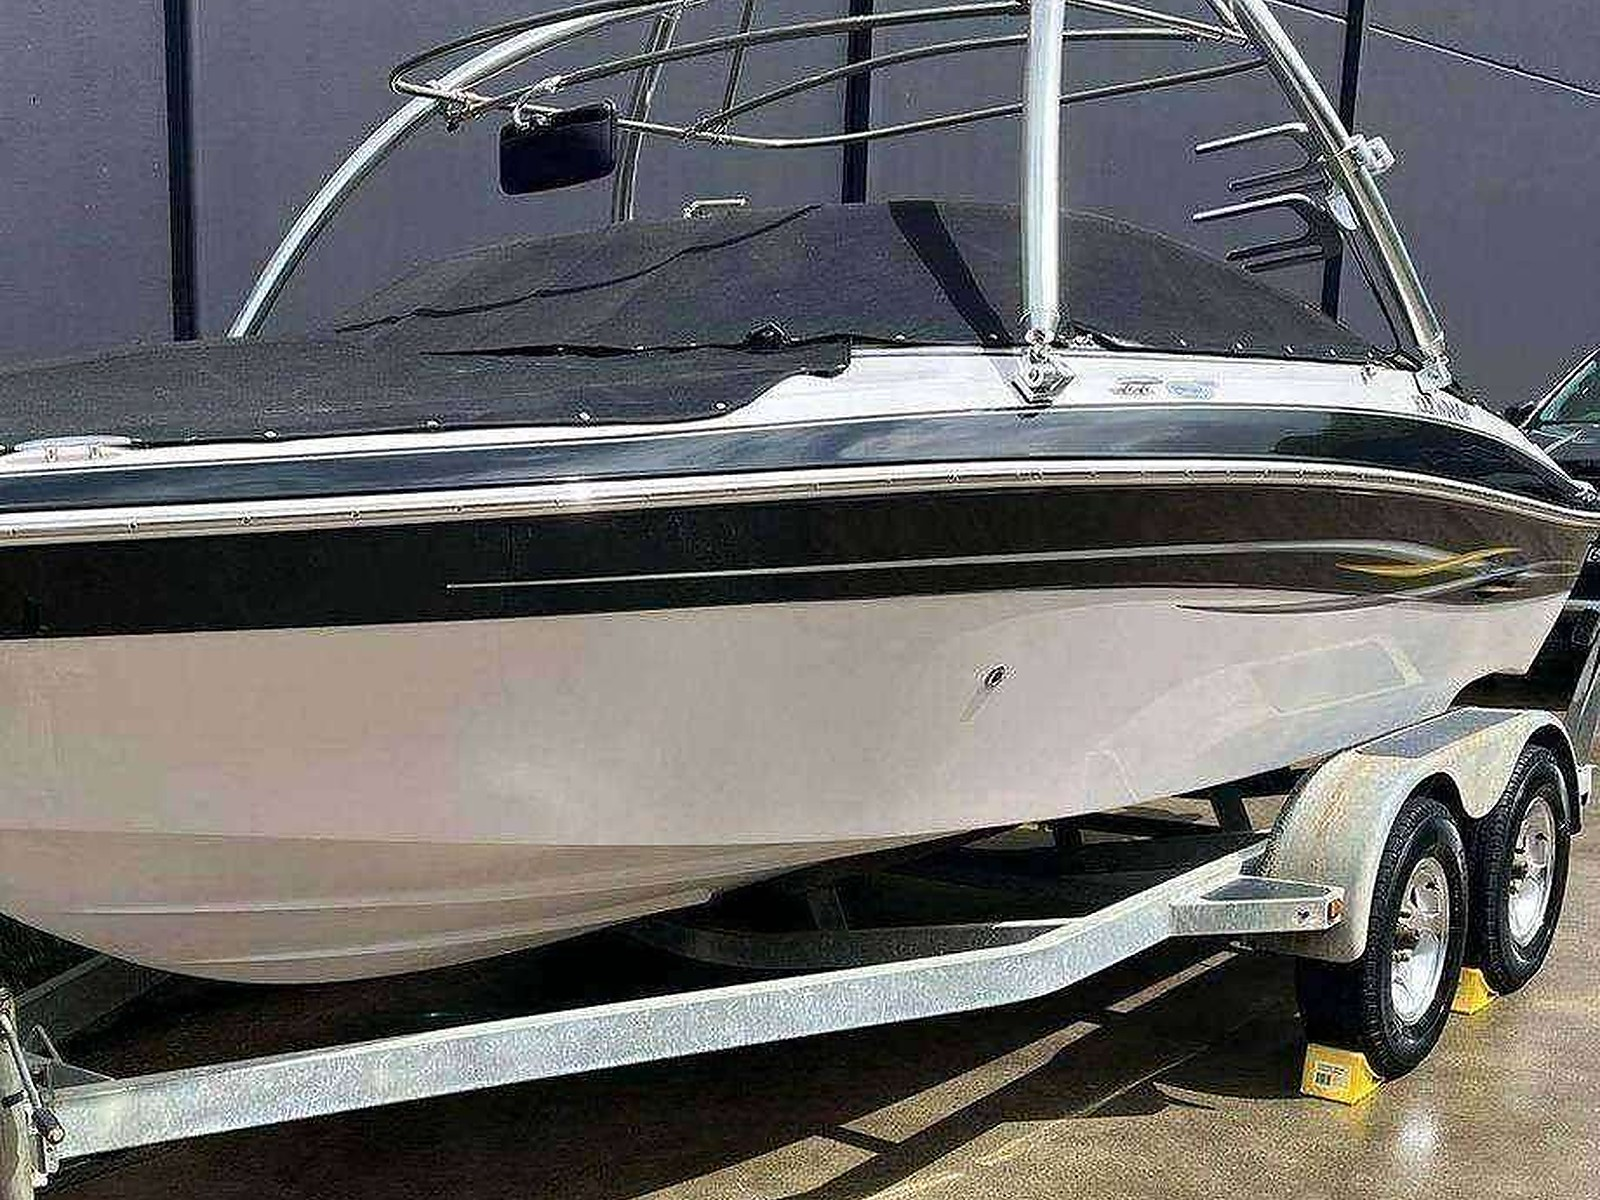
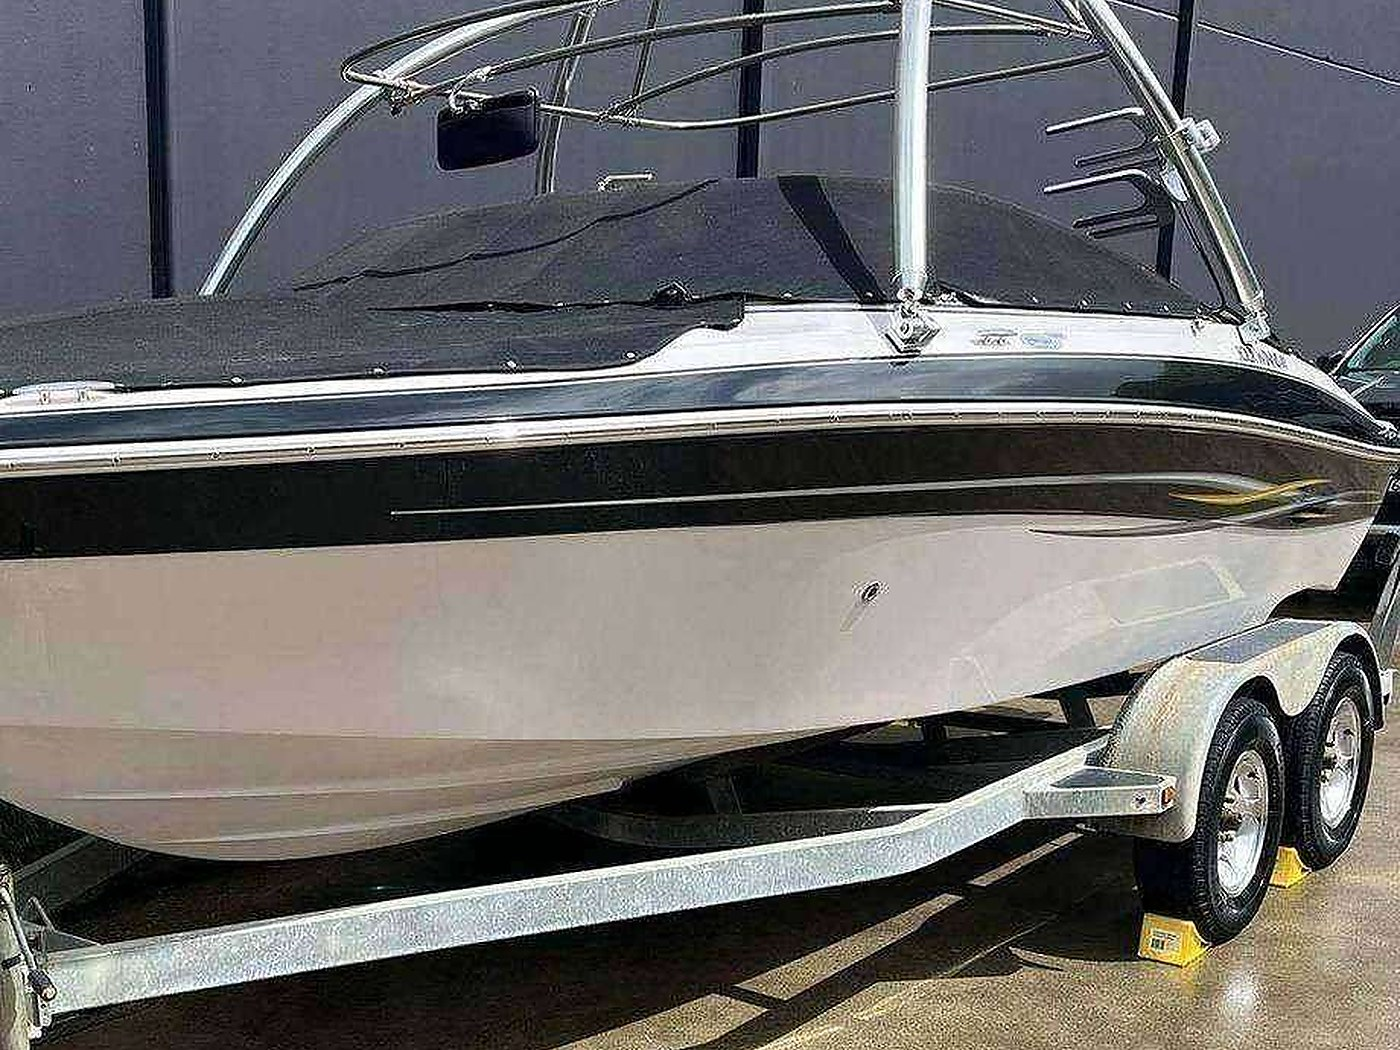
allards: every slide and showcase frame rebuilt to a uniform 1400x1050 4:3 crop, sharpened and re-encoded (half of them were still the raw 1.2MB originals), and both strips narrowed to 760px

diff --git a/sites/radar-142/index.html b/sites/radar-142/index.html
@@ -418,7 +418,7 @@ nav .nav-links.open{right:0!important;left:auto!important;transform:none!importa
 }
 </style><style id="lb-slides-sm">
 /* slideshow as a contained panel, not full bleed — smaller frames, sharper rendering */
-.lb-rb{max-width:940px!important;margin:clamp(28px,4vw,56px) auto!important;border:1px solid rgba(255,255,255,.12)!important}
+.lb-rb{max-width:760px!important;margin:clamp(28px,4vw,56px) auto!important;border:1px solid rgba(255,255,255,.12)!important}
 .lb-rb__track{aspect-ratio:4/3!important}
 .lb-rb__slide img{object-fit:cover!important;image-rendering:auto}
 .lb-rb__cap{font-size:12.5px!important;letter-spacing:.06em!important}
@@ -436,7 +436,7 @@ nav .nav-links.open{border:2px solid #a32020!important;box-shadow:0 28px 64px rg
 .hero{height:clamp(500px,70vh,680px)!important;min-height:0!important;overflow:hidden!important}
 .hero .hero-in{height:100%!important;display:flex!important;align-items:center!important}
 .hero-slides img{width:100%!important;height:100%!important;object-fit:cover!important}
-.sld-stage{max-width:940px!important;margin:0 auto!important}
+.sld-stage{max-width:760px!important;margin:0 auto!important}
 @media(max-width:980px){.sld-stage{max-width:none!important}}
 </style><style id="lb-mobile-hdr">
 @media(max-width:860px){
